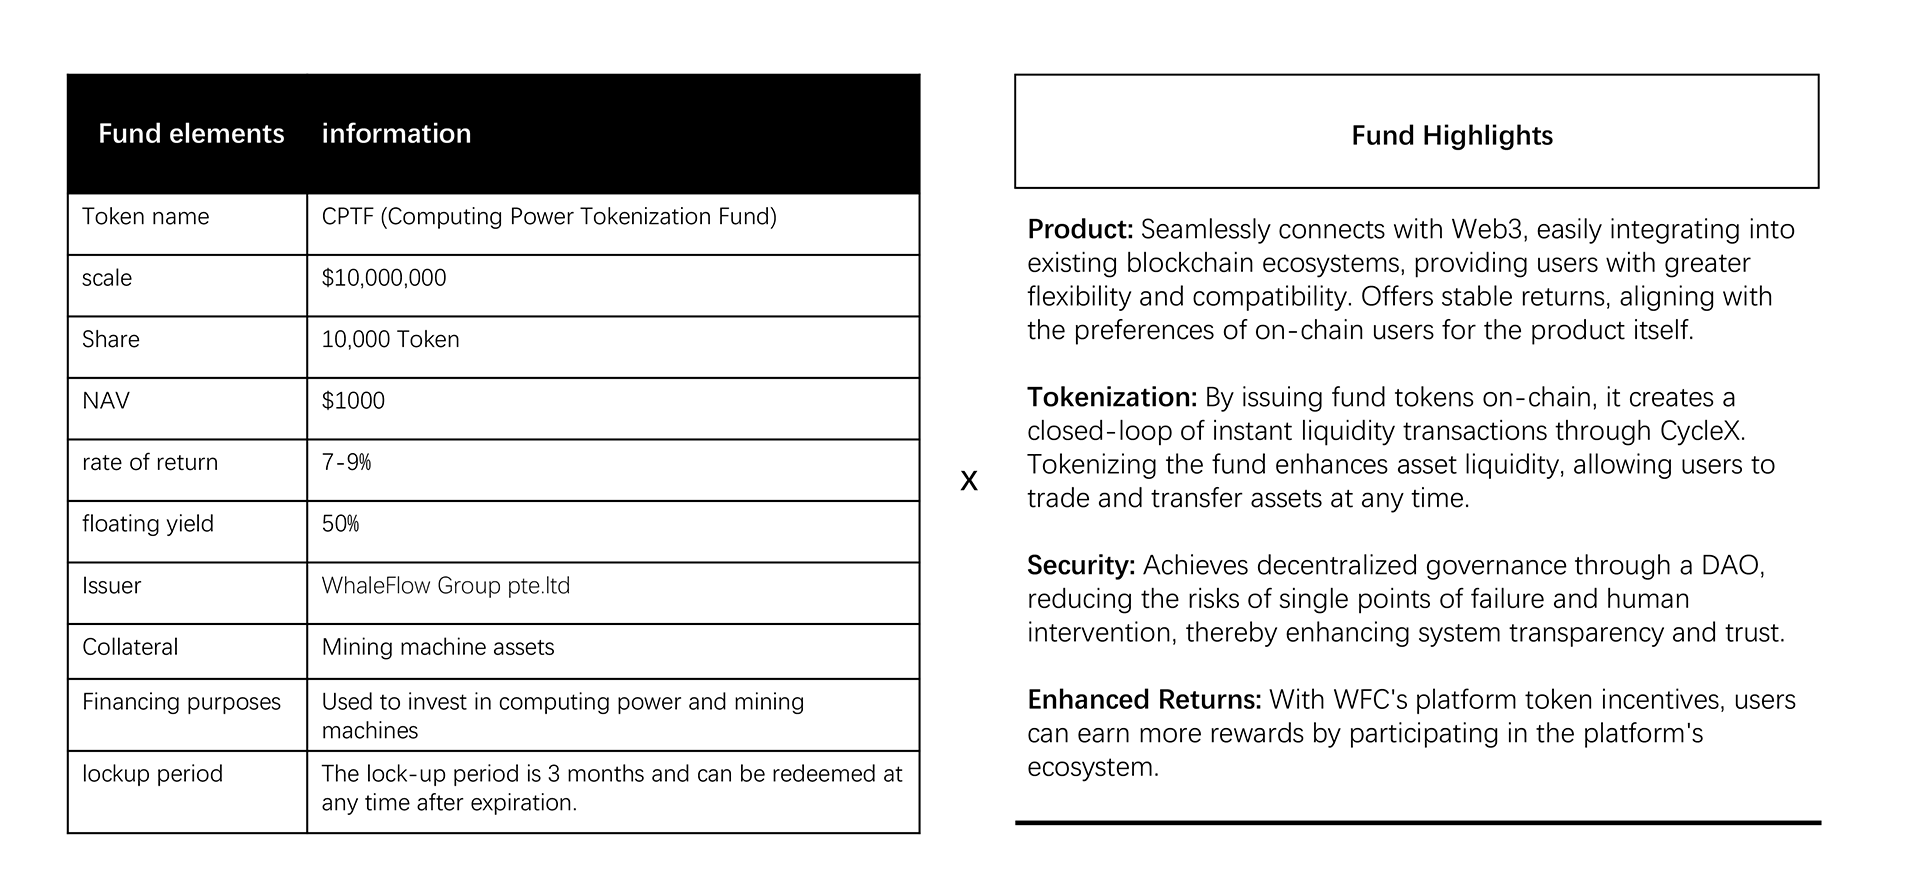
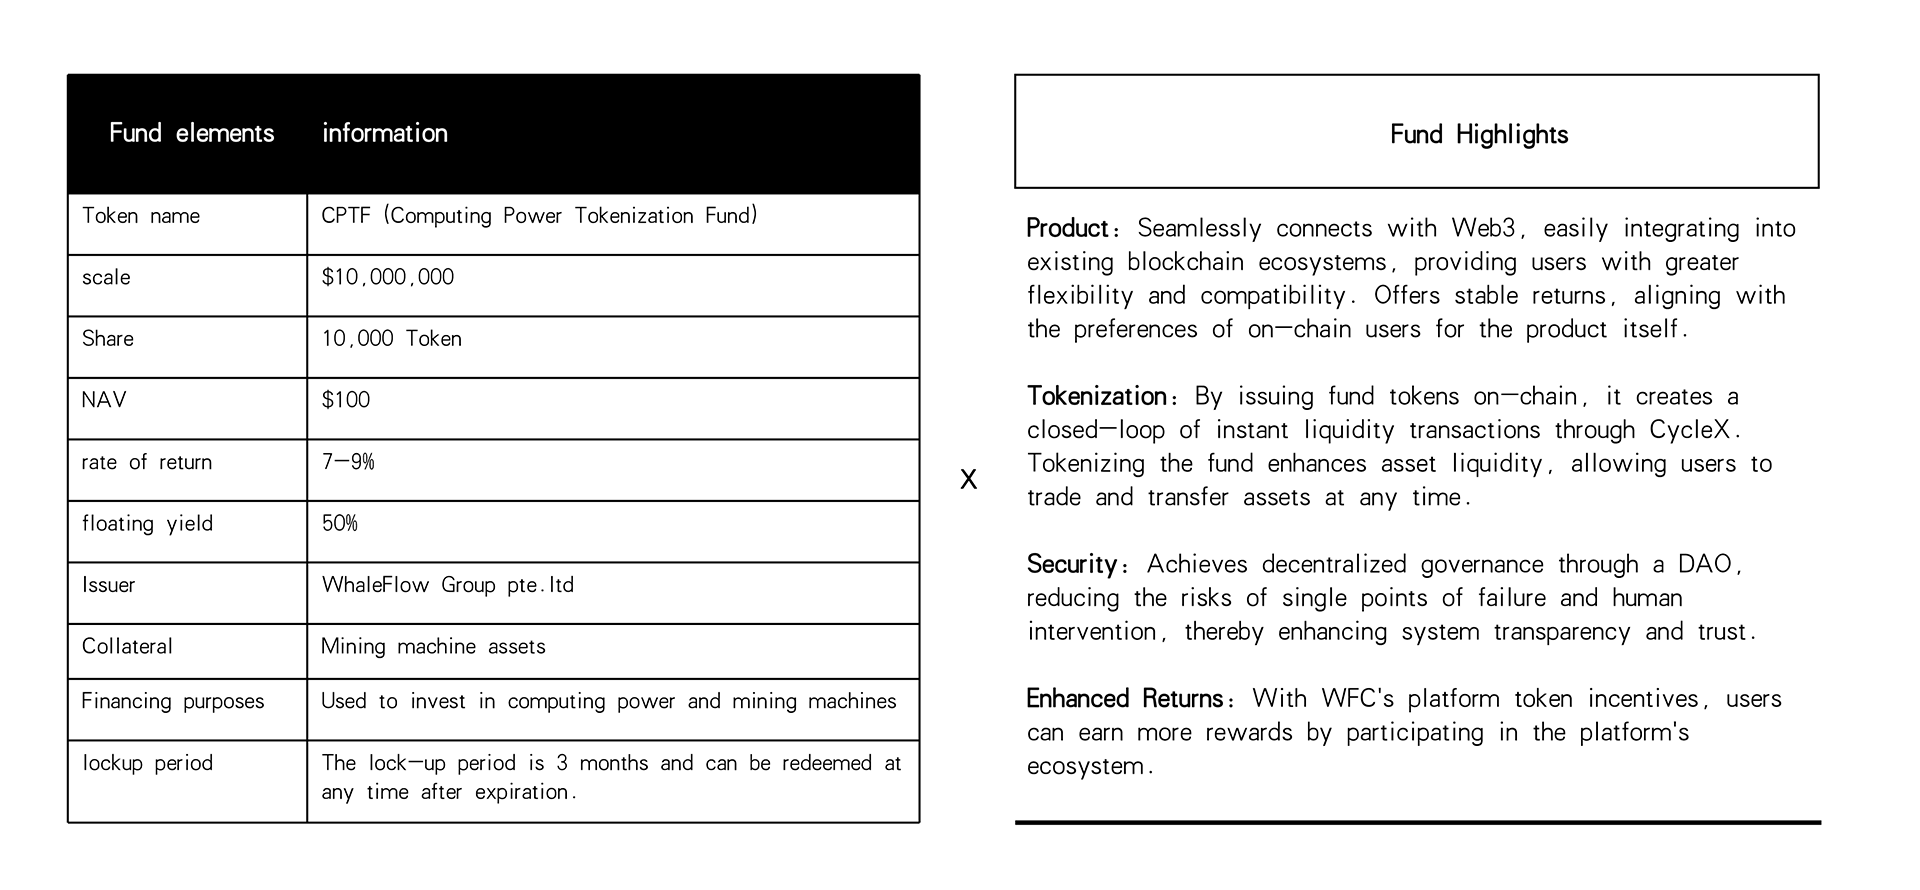
fix

diff --git a/src/components/Guides/Product.tsx b/src/components/Guides/Product.tsx
@@ -62,11 +62,10 @@ const Product = () => {
     },
     {
       title: t("Net value per unit /NAV"),
-      key: "net_worth",
-      dataIndex: "net_worth",
+      key: "unit",
+      dataIndex: "unit",
       width: 150,
-      // render: (value) => (Number(value) ? '$'+ value : value),
-      render: (value) => "$ 1000",
+      render: (value) => (Number(value) ? '$'+ value : value),
     },
     {
       title: t("Expected yield /APY"),

diff --git a/src/components/Home/Todo_Assets.tsx b/src/components/Home/Todo_Assets.tsx
@@ -75,7 +75,7 @@ const TodoListAssets = () => {
       key: "unit",
       dataIndex: "unit",
       width: 180,
-      render: (value) => "$1000",
+      render: (value) => (Number(value) ? '$'+ value : value),
     },
     {
       title: t("Expected yield /APY"),
